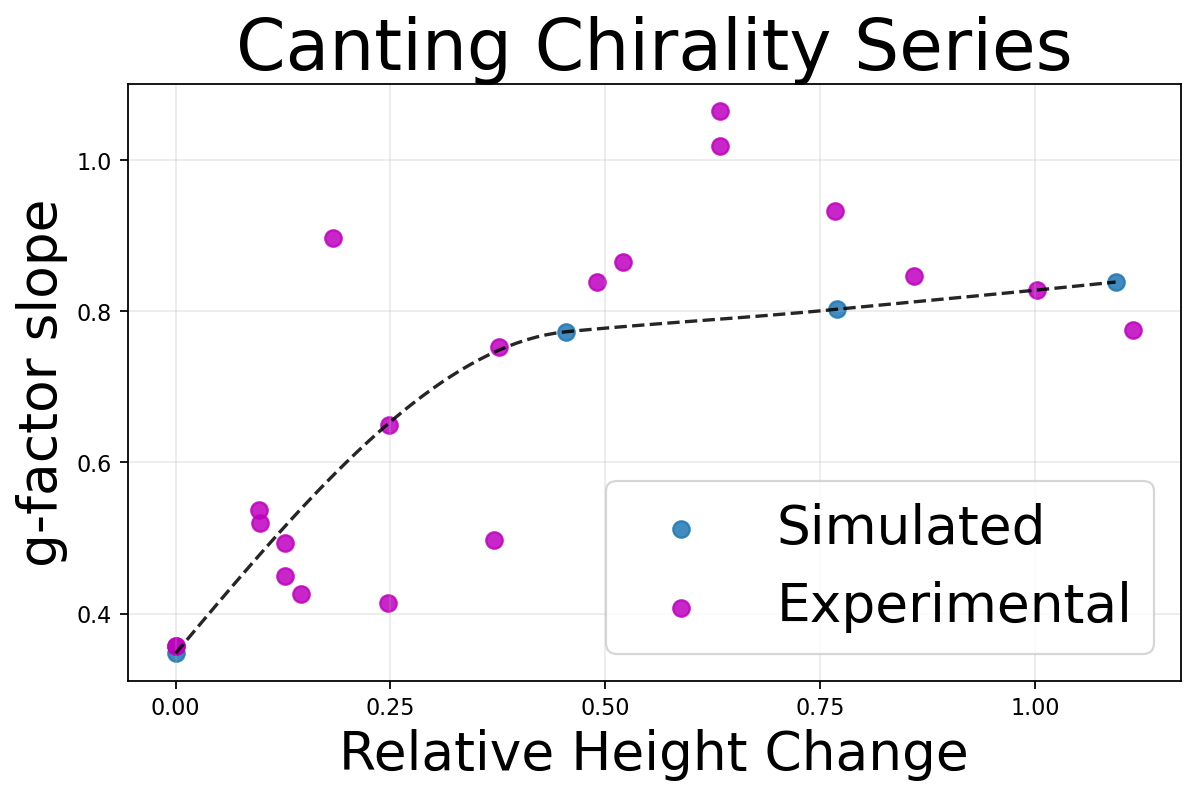
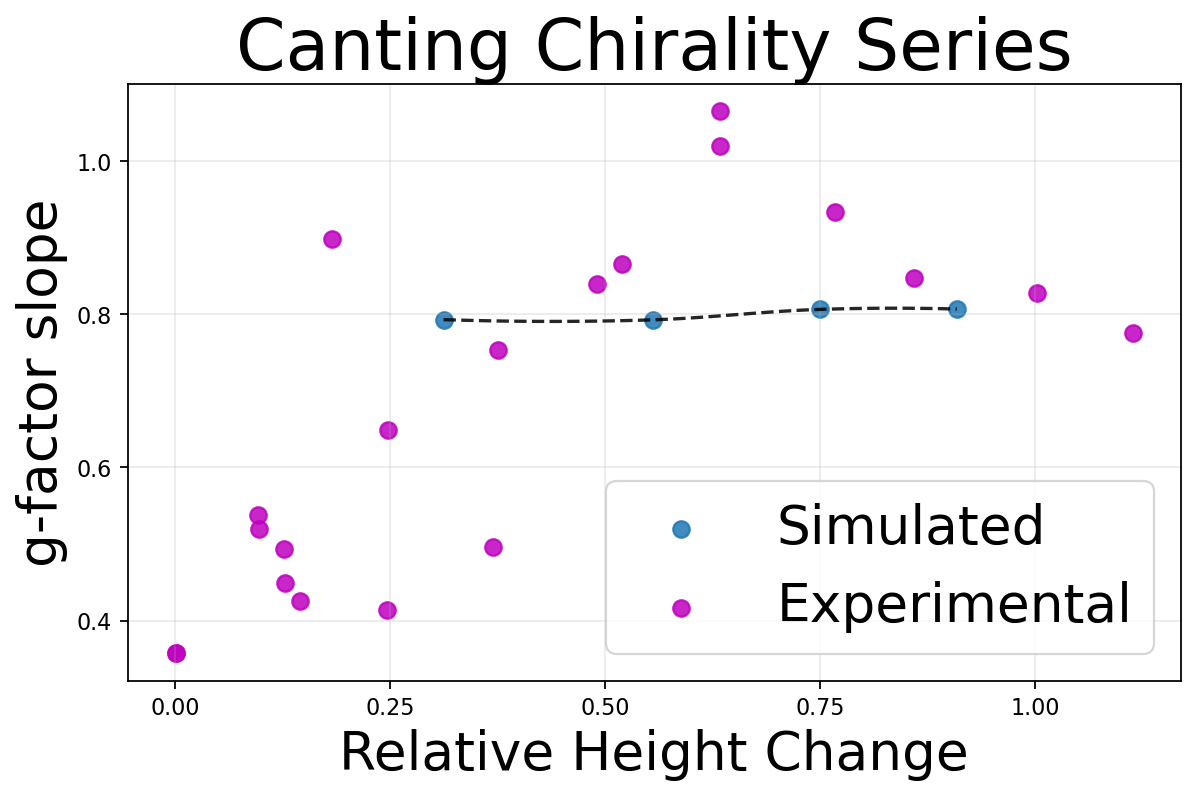
before we try and go plot chasing

diff --git a/scripts/chirality_plots/canting_plotter.py b/scripts/chirality_plots/canting_plotter.py
@@ -57,7 +57,7 @@ kg_riv = np.array([0.3571428912026467, 0.3571428912026467, 0.5194806793644906, 0
 
 def plot_canting(ax, base_dir=None, include_experimental=True):
     if base_dir is None:
-        base_dir = (Path(__file__).resolve() / "../canting_tests/").resolve()
+        base_dir = (Path(__file__).resolve() / "../../../canting_tests_2/").resolve()
 
     if not base_dir.exists():
         raise FileNotFoundError(f"Base directory not found: {base_dir}")
@@ -123,10 +123,12 @@ def plot_canting(ax, base_dir=None, include_experimental=True):
     k_gs = np.asarray(k_gs, dtype=float)
 
     sorted_inds = sorted(list(range(len(ht_ratios))), key=lambda i: ht_ratios[i])
-    sorted_inds = [sorted_inds[i] for i in (0, 2, 4, 7)]
+    
+    #sorted_inds = [sorted_inds[i] for i in (0, 2, 4, 7)]
     # del(sorted_inds[0])
     # del(sorted_inds[1])
     # del(sorted_inds[-2])
+    
     ht_ratios_sorted = [ht_ratios[si] for si in sorted_inds]
     k_gs_sorted = [k_gs[si] for si in sorted_inds]
     # k_gs_sorted[0] = 4*k_gs_sorted[0]
